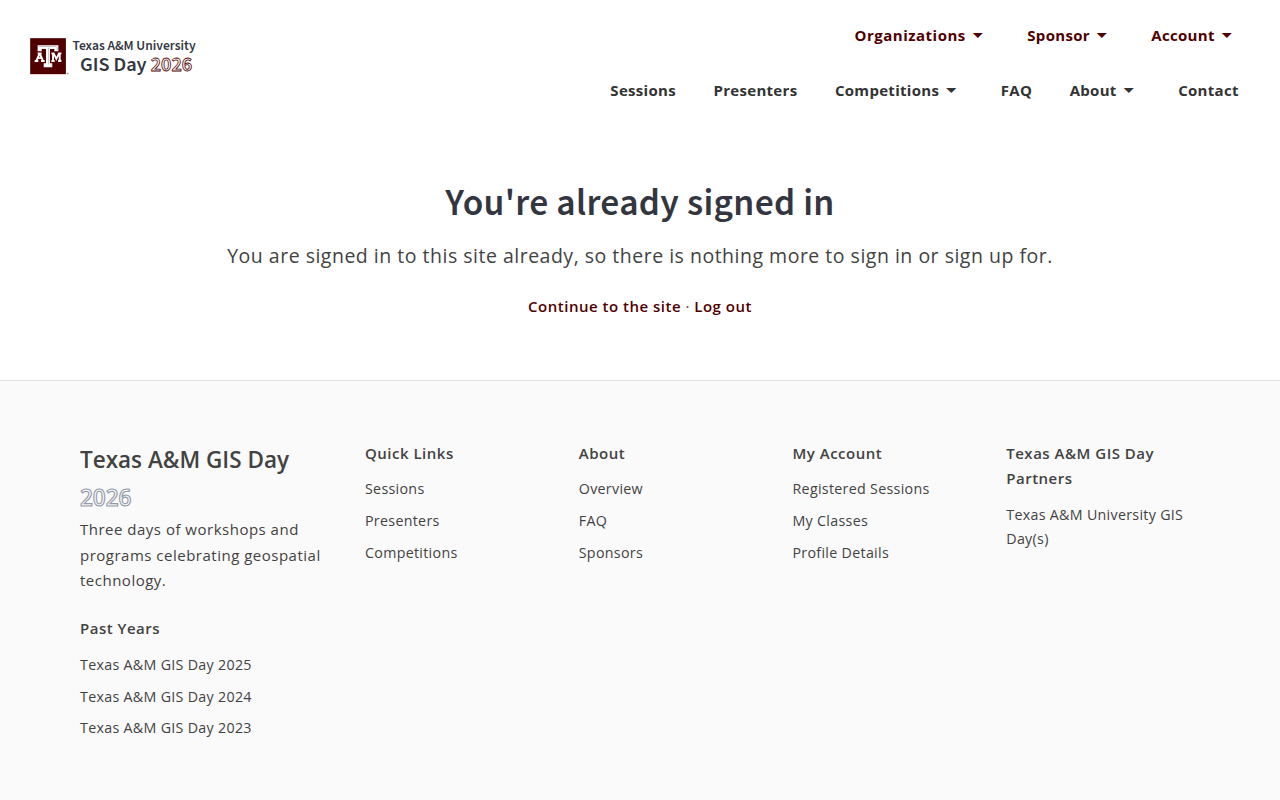
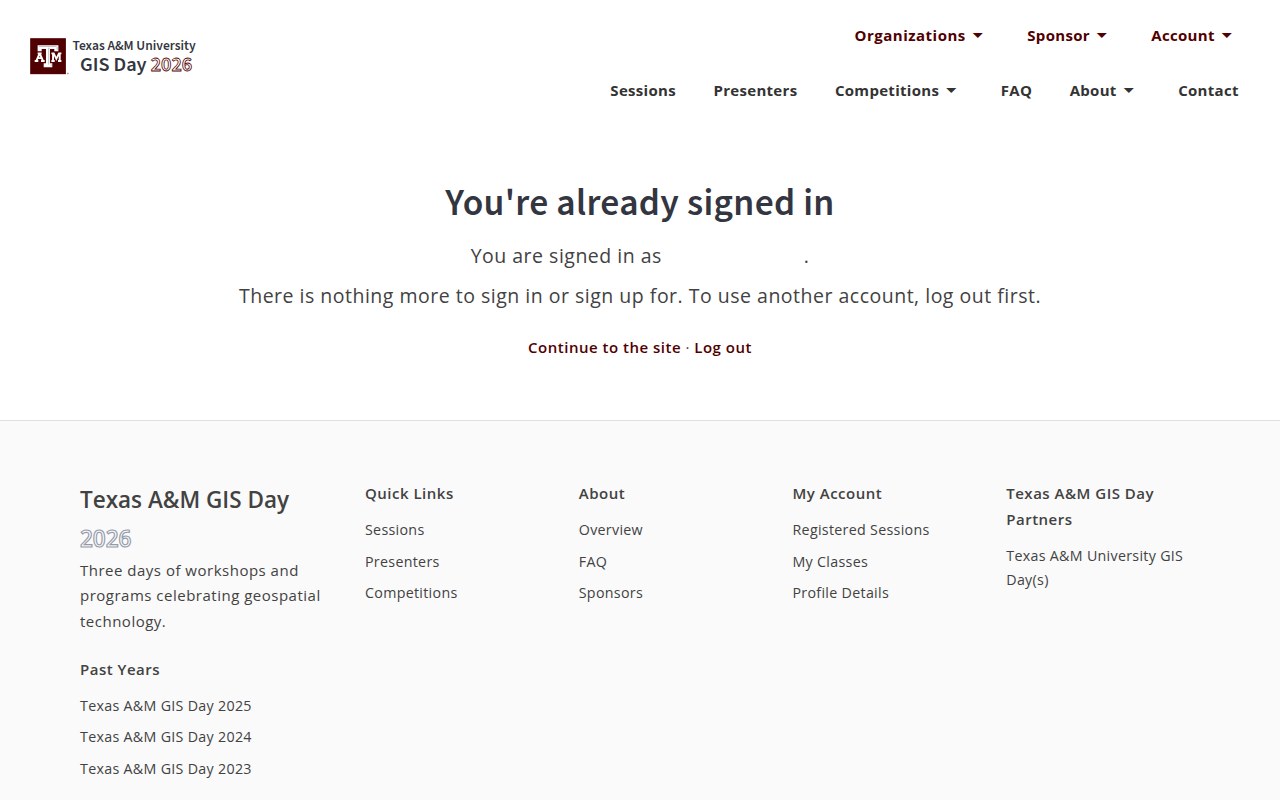
docs(gisday-angular): The after image of the already-signed-in page, retaken at 7c31f3417, saying as whom (#3154)
Retaken as before: signed in as the local test admin on the local site served as gisday.tamu.edu
(http://gisday.local.test:4201), the FAQ's first question opened and "create an account" followed, 1280 by
800. The page now reads "You are signed in as <name>." with the account's name blanked in place (only the
name's own characters, made transparent; the words around it and the layout are unchanged), and "There is
nothing more to sign in or sign up for. To use another account, log out first." The release note's alt
text, its What to test on dev row and its closing sentence now describe that page.

diff --git a/docs/releases/unreleased/3154-already-signed-in.md b/docs/releases/unreleased/3154-already-signed-in.md
@@ -2,7 +2,7 @@
 issue: 3154
 title: "GIS Day: a visitor already signed in who follows a sign-up or log-in link is told so, with Continue to the site and Log out"
 testOnDev: |
-  | GIS Day: already signed in at /signup or /login ([#3154](https://github.com/TamuGeoInnovation/Tamu.GeoInnovation.js.monorepo/issues/3154)) | Not on dev: GIS Day has no dev site yet ([#1525](https://github.com/TamuGeoInnovation/Tamu.GeoInnovation.js.monorepo/issues/1525)). After release, sign in on [gisday.tamu.edu](https://gisday.tamu.edu/faq), open the FAQ's first question and follow "create an account" | A page saying **You're already signed in**, with **Continue to the site** (to the home page) and **Log out**, instead of the FAQ coming back. Signed out, the same link still goes to the sign-in page |
+  | GIS Day: already signed in at /signup or /login ([#3154](https://github.com/TamuGeoInnovation/Tamu.GeoInnovation.js.monorepo/issues/3154)) | Not on dev: GIS Day has no dev site yet ([#1525](https://github.com/TamuGeoInnovation/Tamu.GeoInnovation.js.monorepo/issues/1525)). After release, sign in on [gisday.tamu.edu](https://gisday.tamu.edu/faq), open the FAQ's first question and follow "create an account" | A page saying **You're already signed in** and **You are signed in as** your name (or, without one, your email), with the tab saying **Already signed in** beside the site's name, and with **Continue to the site** (to the home page) and **Log out**, instead of the FAQ coming back. Signed out, the same link still goes to the sign-in page |
 ---
 
 ### GIS Day: a visitor already signed in who follows a sign-up or log-in link is told so, with Continue to the site and Log out
@@ -10,15 +10,16 @@ testOnDev: |
 Since [#3148](https://github.com/TamuGeoInnovation/Tamu.GeoInnovation.js.monorepo/issues/3148), the FAQ's "create an
 account" and "log in" links (`/signup` and `/login`) start signing in. For a visitor who is already signed in, Auth0
 sent them straight back, so the page they were on simply came back and the link seemed to do nothing. They now see a
-page that says they are already signed in, with **Continue to the site** and **Log out**, the header's own Logout
-([#3154](https://github.com/TamuGeoInnovation/Tamu.GeoInnovation.js.monorepo/issues/3154)). Signed-out visitors are
-unchanged: they go to sign in, as before. `/logout` now logs out too, instead of drawing an empty page.
+page that says they are already signed in, and as whom, with **Continue to the site** and **Log out**, the header's
+own Logout ([#3154](https://github.com/TamuGeoInnovation/Tamu.GeoInnovation.js.monorepo/issues/3154)). Signed-out
+visitors are unchanged: they go to sign in, as before. `/logout` now logs out too, instead of drawing an empty page.
 
 | Signed in, the FAQ's first question opened and "create an account" followed, 1280 pixels, on the local site as gisday.tamu.edu | Before | After |
 | --- | --- | --- |
-| What comes back | ![The FAQ page again, reloaded, with its first question closed: nothing says what happened](../screenshots/3154-already-signed-in/before-signed-in.png) | ![A page headed You're already signed in, with Continue to the site and Log out](../screenshots/3154-already-signed-in/after-signed-in.png) |
+| What comes back | ![The FAQ page again, reloaded, with its first question closed: nothing says what happened](../screenshots/3154-already-signed-in/before-signed-in.png) | ![A page headed You're already signed in, saying You are signed in as, then the account's name (blanked here), and There is nothing more to sign in or sign up for. To use another account, log out first, with Continue to the site and Log out](../screenshots/3154-already-signed-in/after-signed-in.png) |
 
 GIS Day has no dev site, so this cannot be checked on dev; it was checked on the local site, served as gisday.tamu.edu
 at `http://gisday.local.test:4201` rather than `localhost`, because the development Auth0 tenant always asks for consent
-from a `localhost` address and skips it for that one. The signed-in account's name and email do not appear on either
-page; each was checked for them before it was captured.
+from a `localhost` address and skips it for that one. The after page names the signed-in account; in the image that
+name is blanked in place, leaving the words around it, and neither image shows the account's name or email, which were
+checked for before each was captured.
